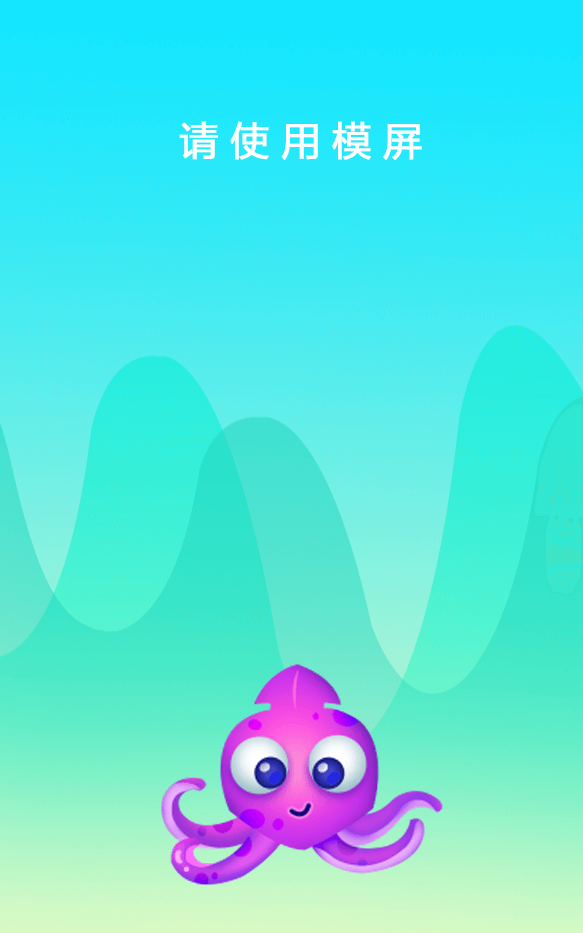
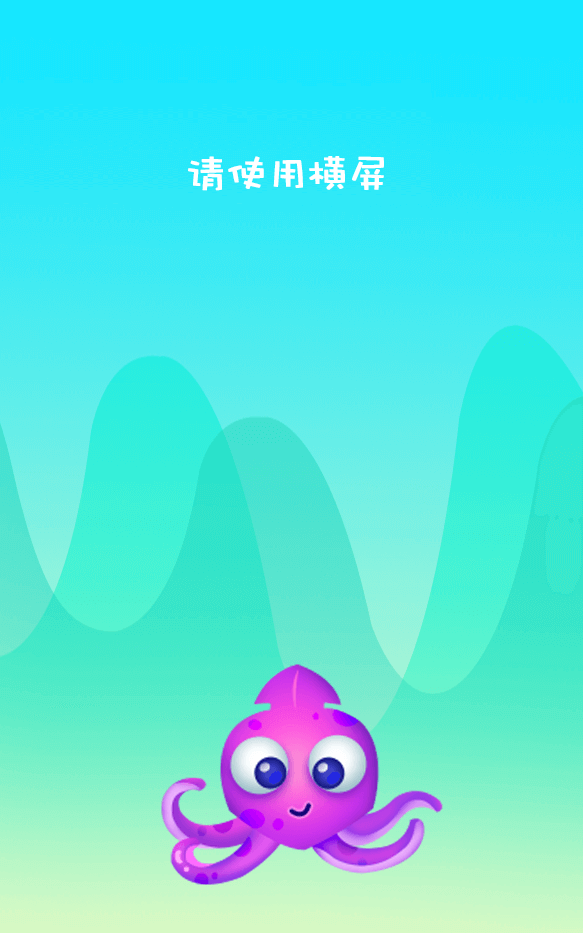
update

Changed region(s): [[0.3087, 0.1243, 0.741, 0.2176]]

diff --git a/index.html b/index.html
@@ -44,8 +44,9 @@
             <canvas id="game" width="480" height="300"></canvas>
             <canvas id="hud" width="480" height="300"></canvas>
             <canvas id="mouth" width="480" height="300"></canvas>
-            <div id='instructions' style='opacity:1' ontouchstart='PWG.tipEnd();' onclick='PWG.tipEnd();'>
-            </div>
+            <!--
+            <div id='instructions' style='opacity:1' ></div>-->
+            <div id='instructions' style='opacity:1' ontouchstart='PWG.tipEnd();' onclick='PWG.tipEnd();'></div>
             <div id="hud_screen">
                 <div style="position:absolute;top:0;right:220px;margin:10px;width:150px">
                     <div class="hud_button" id="bmusic" ontouchstart='menu.toggleAudio();' onclick='menu.toggleAudio();'></div>
@@ -204,15 +205,26 @@
             fullScreen();
         }
 
+        // if (window.location.host == "laysmax201.ts13.ompchina.net") {
+        //     //百度代码：laysmax201.ts13.ompchina.net
+        //     var _hmt = _hmt || [];
+        //     (function() {
+        //         var hm = document.createElement("script");
+        //         hm.src = "//hm.baidu.com/hm.js?13460039d4e07b1189ab1b8cb443fa81";
+        //         var s = document.getElementsByTagName("script")[0];
+        //         s.parentNode.insertBefore(hm, s);
+        //     })();
+        // } else {
+            //百度代码：laysmax2015.ompchina.net
+            var _hmt = _hmt || [];
+            (function() {
+                var hm = document.createElement("script");
+                hm.src = "//hm.baidu.com/hm.js?8eee0978707e0cc2e3fdfcc0a4687c4c";
+                var s = document.getElementsByTagName("script")[0];
+                s.parentNode.insertBefore(hm, s);
+            })();
 
-        //百度的代码
-        var _hmt = _hmt || [];
-        (function() {
-            var hm = document.createElement("script");
-            hm.src = "//hm.baidu.com/hm.js?8eee0978707e0cc2e3fdfcc0a4687c4c";
-            var s = document.getElementsByTagName("script")[0];
-            s.parentNode.insertBefore(hm, s);
-        })();
+        // }
         </script>
     </div>
 </body>

diff --git a/css/game.css b/css/game.css
@@ -23,15 +23,31 @@ body.needRotate:before{
     content: " ";
     position: absolute;
     z-index: 9999;
-    width: 100%;
-    height: 100%;
-    background-size:contain;
+    width: 480px;
+    height: 300px;
+    left:50%;
+    top:50%;
+    margin-left: -240px;
+    margin-top: -150px;
+    background-size:208px 205px;
     background:transparent url('../art/rotateHint.png') no-repeat scroll center center;
 
     -webkit-animation-name: rotation;
     -webkit-animation-duration: 3s;
     -webkit-animation-timing-function: linear;
     -webkit-animation-iteration-count: infinite;
+
+    -o-animation-name: rotation;
+    -o-animation-duration: 3s;
+    -o-animation-timing-function: linear;
+    -o-animation-iteration-count: infinite;
+
+    -moz-animation-name: rotation;
+    -moz-animation-duration: 3s;
+    -moz-animation-timing-function: linear;
+    -moz-animation-iteration-count: infinite;
+
+
     animation-name: rotation;
     animation-duration: 3s;
     animation-timing-function: linear;
@@ -145,7 +161,28 @@ img {
         -webkit-transform:rotate(-90deg)  ;
     }
 }
-
+@-moz-keyframes rotation {
+    0% {
+        -moz-transform:rotate(-90deg)  ;
+    }
+    50% {
+        -moz-transform:rotate(0deg)  ;
+    }
+    100% {
+        -moz-transform:rotate(-90deg)  ;
+    }
+}
+@-o-keyframes rotation {
+    0% {
+        -o-transform:rotate(-90deg)  ;
+    }
+    50% {
+        -o-transform:rotate(0deg)  ;
+    }
+    100% {
+        -o-transform:rotate(-90deg)  ;
+    }
+}
 @keyframes rotation {
     0% {
         transform:rotate(-90deg)  ;
@@ -197,8 +234,8 @@ img {
 
 #screen > #shade {
     background-color: #000;
-    opacity: 0.5;
-    filter: alpha(opacity=50);
+    opacity: 0.8;
+    filter: alpha(opacity=80);
 }
 #screen > #invite {
 	display: none;

diff --git a/src/PonyWingsGameBAK.js b/src/PonyWingsGameBAK.js
@@ -2,7 +2,7 @@ var PWG = {};
 PWG.timer_enterFrame = null;
 PWG.timer_draw = null;
 PWG.playGame = function() {
-    //console.log(PWG.timer_enterFrame,PWG.timer_draw);
+    console.log(PWG.timer_enterFrame,PWG.timer_draw);
     if (PWG.timer_enterFrame == null){
         PWG.timer_enterFrame = setInterval(PWG.enterFrame, enterFrameRate);
         PWG.timer_draw = setInterval(PWG.draw, drawFrameRate);        
@@ -156,8 +156,6 @@ PWG.tipEnd = function() {
     music.play();
     menu.toggleAudio();
     document.getElementById("bmusic").className = "hud_button toggle";
-    document.getElementById("instructions").style.display = "none";
-
 
     // Remove Loading Screen
     gameIsLoaded = true;
